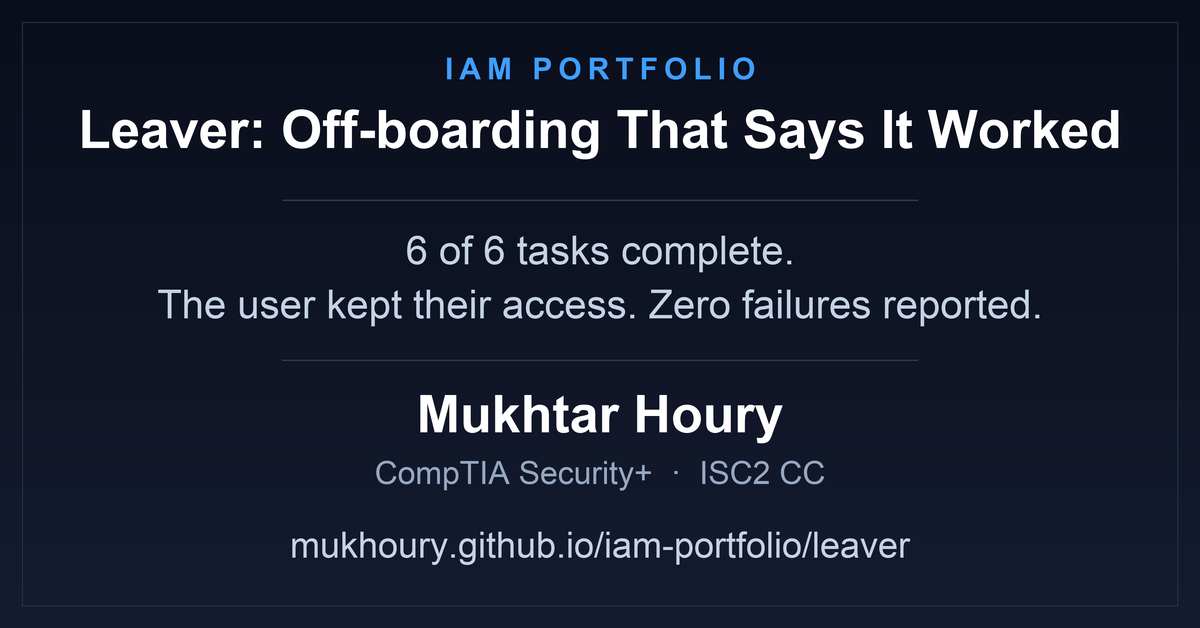
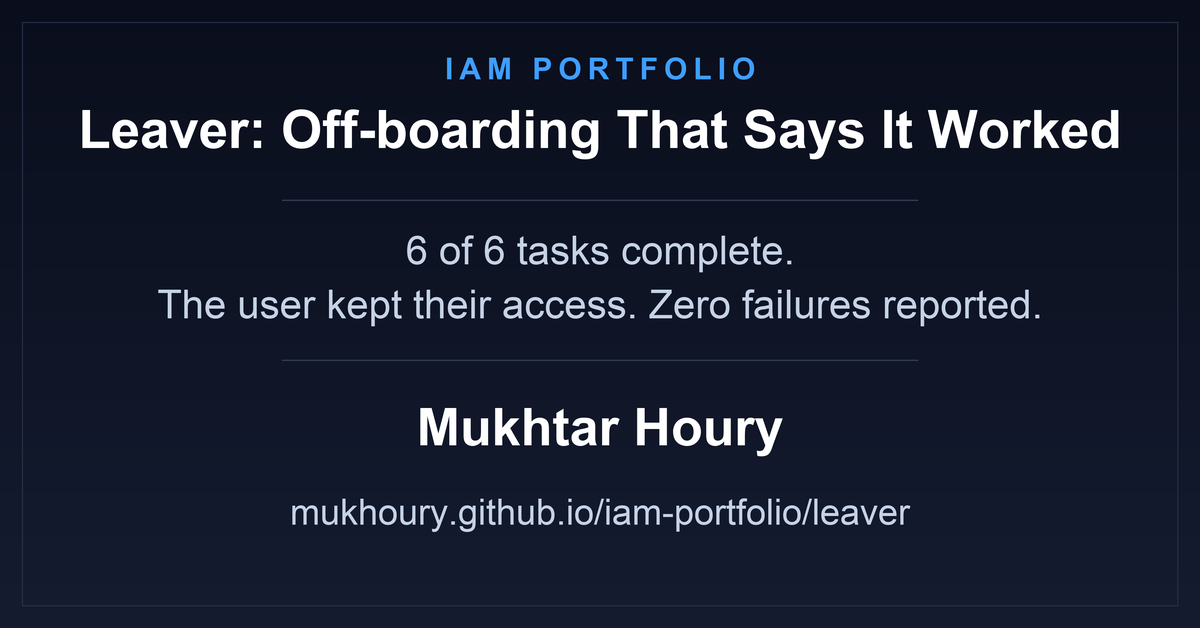
Drop certifications line from Leaver card

Changed region(s): [[0.2467, 0.6354, 0.7708, 0.9076]]

diff --git a/assets/make-leaver-featured-wide.py b/assets/make-leaver-featured-wide.py
@@ -66,9 +66,8 @@ fd = fit("The user kept their access. Zero failures reported.", REG, 40, CONTENT
 center("6 of 6 tasks complete.", fd, 228, SUB)
 center("The user kept their access. Zero failures reported.", fd, 282, SUB)
 rule(360, 0.6)
-center("Mukhtar Houry", fit("Mukhtar Houry", BOLD, 52, CONTENT), 385, WHITE)
-center("CompTIA Security+  ·  ISC2 CC", fit("CompTIA Security+  ·  ISC2 CC", REG, 32, CONTENT), 455, MID)
+center("Mukhtar Houry", fit("Mukhtar Houry", BOLD, 52, CONTENT), 398, WHITE)
 URL = "mukhoury.github.io/iam-portfolio/leaver"
-center(URL, fit(URL, REG, 36, CONTENT), 525, SUB)
+center(URL, fit(URL, REG, 36, CONTENT), 492, SUB)
 img.resize((W, H), Image.LANCZOS).save(OUT, "PNG", optimize=True)
 print("wrote", OUT, W, H)
